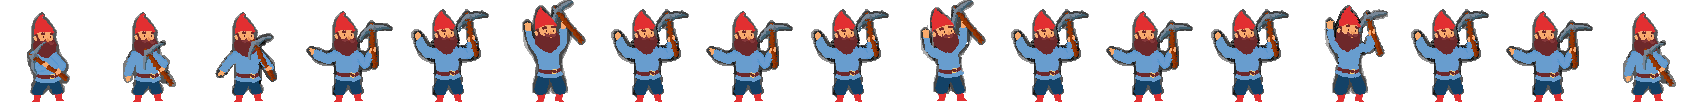
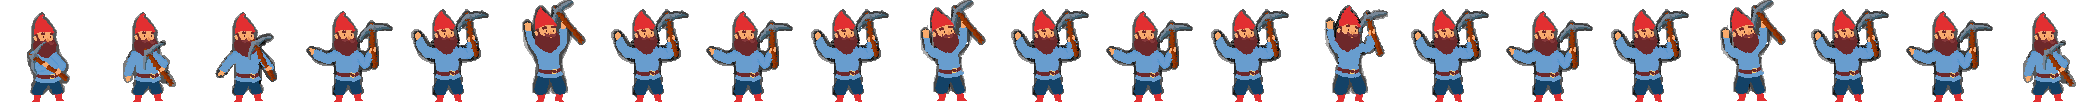
added frames to "Joy" aniamtion of miner

diff --git a/src/gameApp/units/Miner.ts b/src/gameApp/units/Miner.ts
@@ -79,7 +79,7 @@ export class Miner extends Unit{
 			new Animation(5, 5 * 75, Miner.startActiveWaitImage), 		//startActiveWaitingAnimation
 			new AnimationInfinite(4, 4 * 75, Miner.activeWaitImage), 	//activeWaitingAnimation
 			new AnimationInfinite(5, 5 * 100, Miner.runImage),  		//run animation
-			new Animation(17, 17 * 110, Miner.joyImage),  				//joy animation
+			new Animation(21, 21 * 110, Miner.joyImage),  				//joy animation
 			Miner.rotateWeaponInEarch, 
 			Miner.name, Miner.imageHandler, 0, 0, Miner.shopItem.price, 75, Miner.scaleSize, false, 0, true, true); 
 
